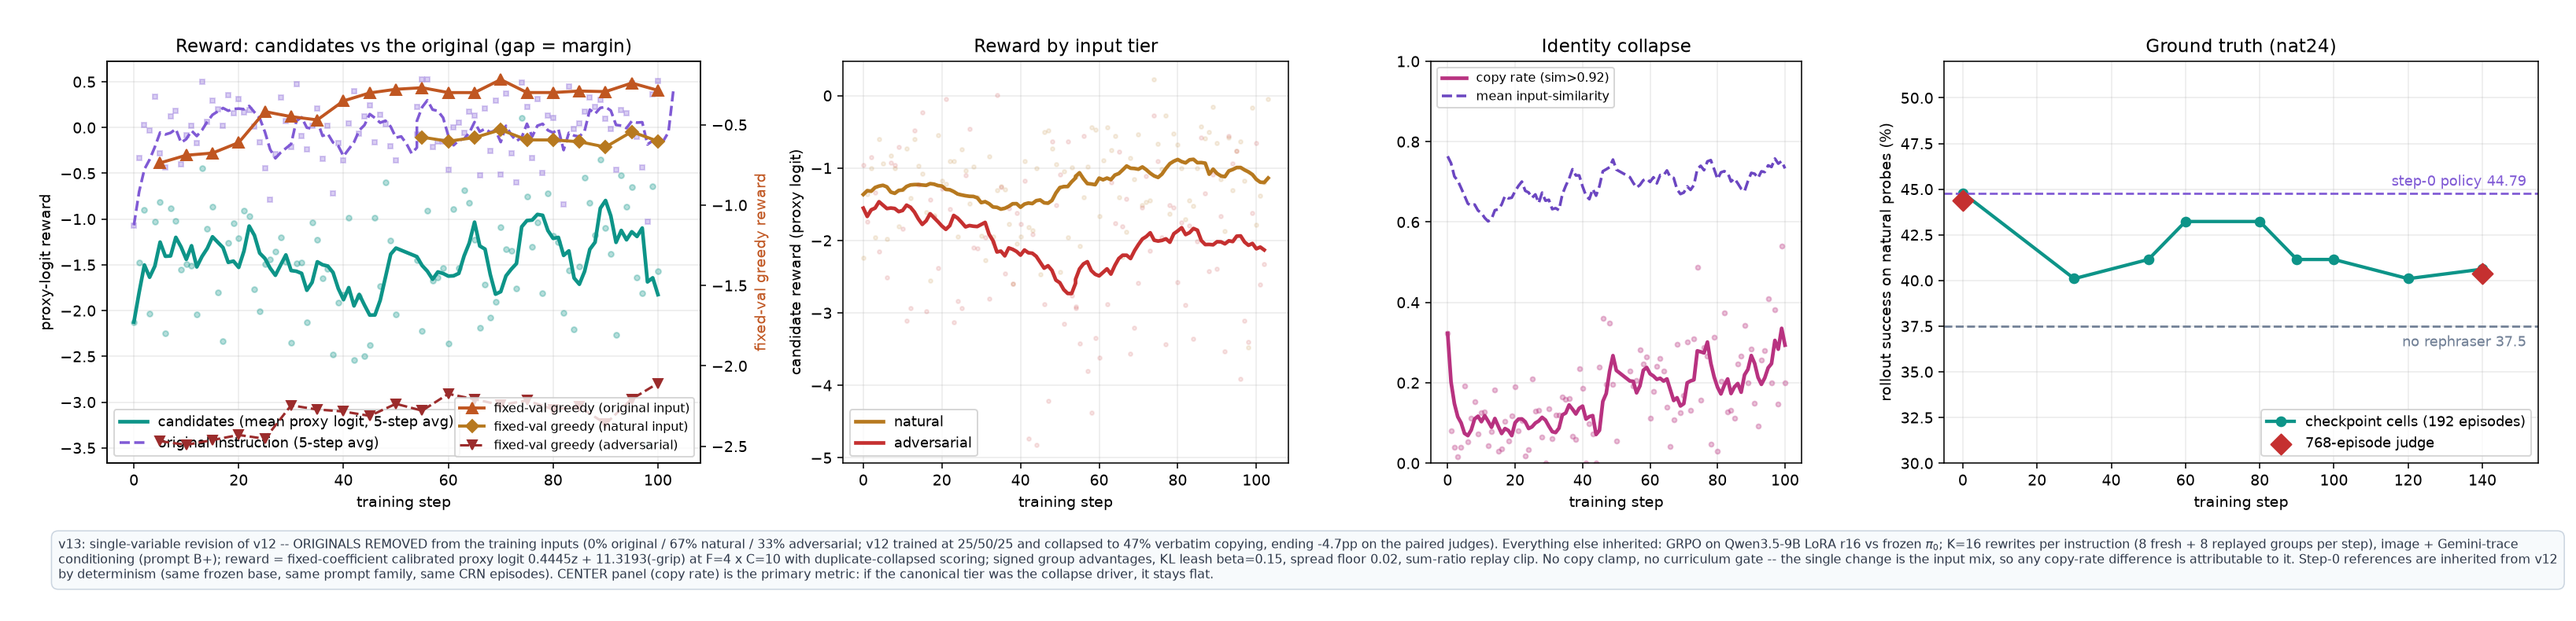
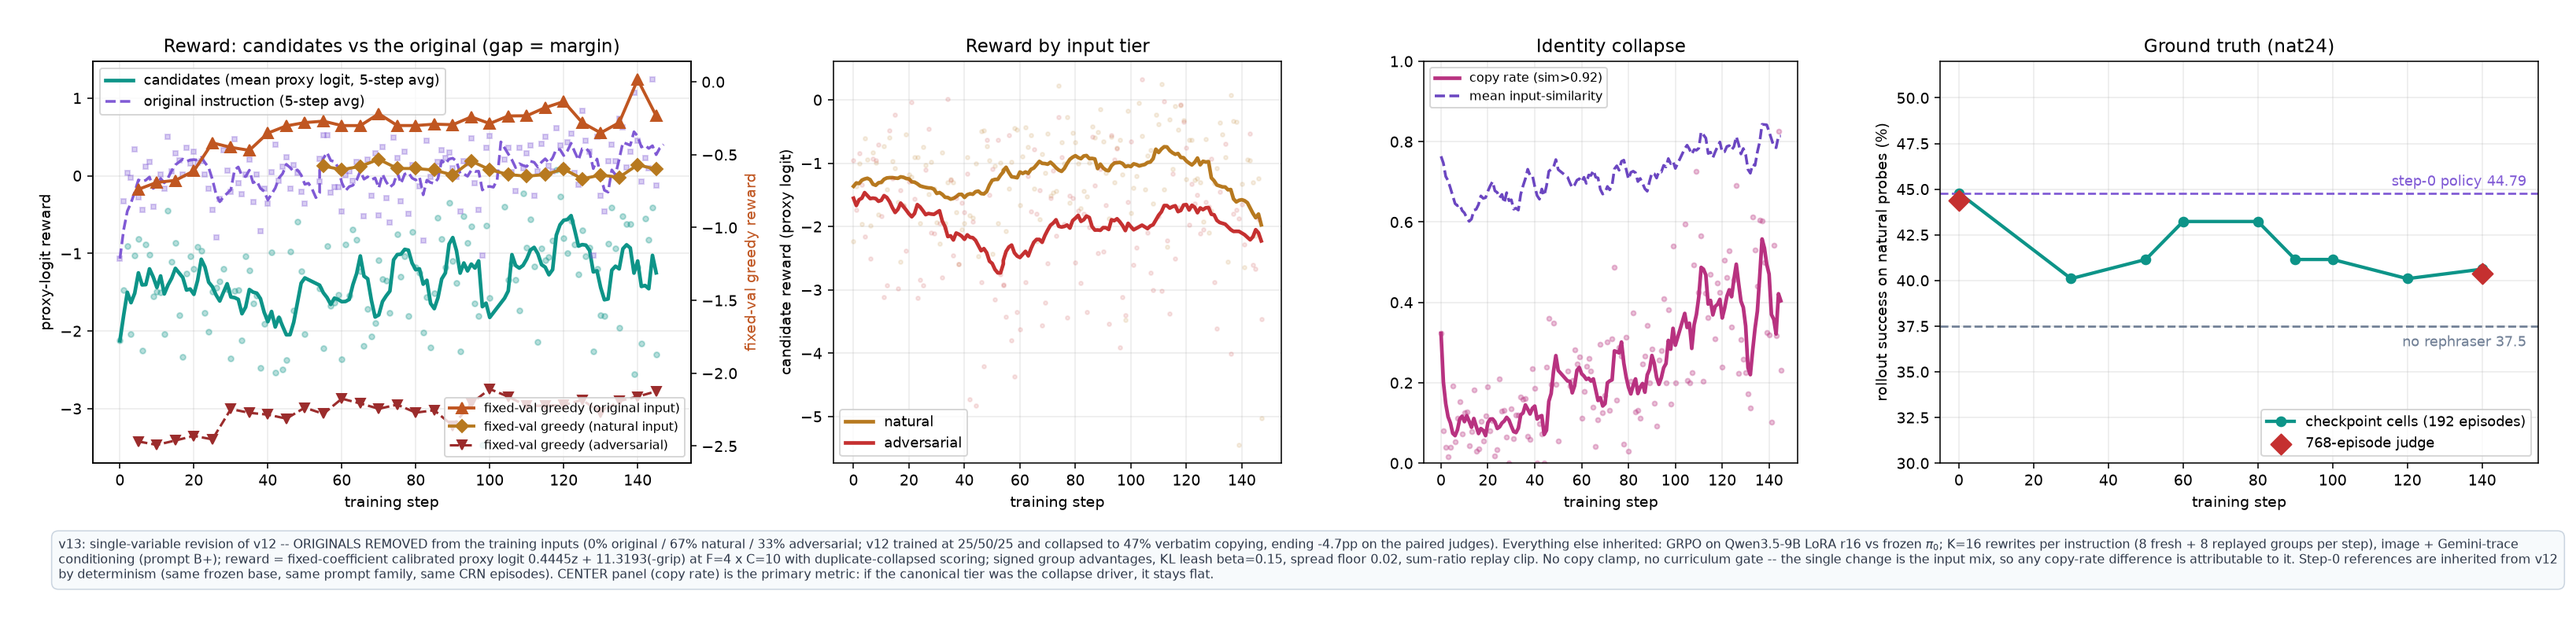
paper: v13 figure + caption in GRPO section; caption-less chart variant for print

diff --git a/paper/main.tex b/paper/main.tex
@@ -399,10 +399,48 @@ action-distance scores that proved uncorrelated with rollout success and
 were abandoned); and the update rule (GRPO over the full sampled group
 versus advantage-weighted finetuning restricted to top-ranked candidate
 sets, with and without replay). \S\ref{sec:results-comparison} reports
-the common outcome. The next revision replaces within-group ranks with
-the calibrated success model of \S\ref{sec:reward} --- a magnitude
-cannot amplify scoring noise into gradient the way a rank can --- and
-restores image conditioning. 
+the common outcome. Two further revisions ran this ablation to ground
+(Fig.~\ref{fig:v13_progress}): replacing within-group ranks with the
+calibrated success model of \S\ref{sec:reward} --- a magnitude cannot
+amplify scoring noise into gradient the way a rank can --- and restoring
+image conditioning eliminated the noise pathway but surfaced a new
+failure, near-verbatim copying of the input (47\% of samples by late
+training); removing original instructions from the training mix then
+eliminated the copying as well --- and rollout success declined all the
+same, from 44.4\% to 40.4\% on paired 768-episode measurements, while
+the reward climbed on every input tier. With rank noise, identity
+collapse, and the input mix each ruled out, what remains is the reward
+itself: its correlation with success, measured across phrases, does not
+survive an optimizer searching for phrases it scores too favorably.
+
+\begin{figure*}[!t]
+    \centering
+    \includegraphics[width=\textwidth]{v13_progress.png}
+    \caption{The final GRPO revision, instrumented end to end. The
+policy (Qwen3.5-9B, LoRA rank 16) rewrites natural and adversarial
+instructions (2:1 mix, no originals), conditioned on the camera frame
+and a scene trace; each step samples $K{=}16$ rewrites of 8
+instructions plus 8 replayed groups, scores every distinct rewrite
+with the calibrated proxy of \S\ref{sec:reward} ($F{=}4$, $C{=}10$),
+and applies signed group-normalized advantages under a KL leash
+($\beta{=}0.15$). \emph{Far left}: mean candidate reward against the
+original instruction's reward on the same scenes, with greedy rewrites
+of a frozen validation set every 5 steps. \emph{Center left}:
+candidate reward by input tier --- the reward rises on all tiers.
+\emph{Center right}: the copying diagnostic --- the fraction of
+rewrites nearly identical to the input stays low throughout (the
+previous revision, which trained with original instructions, collapsed
+to 47\%). \emph{Far right}: ground truth --- rollout success of
+greedy rewrites of 24 natural rephrasings, 192 episodes per point;
+diamonds are paired 768-episode measurements on an identical episode
+set at the endpoints (44.4\% at step 0, 40.4\% at step 140). The
+reward climbs while measured success falls: with every other failure
+mode eliminated, the divergence isolates the proxy itself as the
+exploited surface.}
+    \label{fig:v13_progress}
+\end{figure*}
+
+
 
 
 \section{Experiments}

diff --git a/scripts/make_v13_progress.py b/scripts/make_v13_progress.py
@@ -159,6 +159,9 @@ DESC = (
     "inherited from v12 by determinism (same frozen base, same prompt family, same CRN episodes). CENTER panel (copy rate) is the "
     "primary metric: if the canonical tier was the collapse driver, it stays flat."
 )
+fig.tight_layout()
+fig.savefig("results/charts/v13_progress_paper.png", dpi=200, bbox_inches="tight",
+            pad_inches=0.15)   # caption-less variant for the paper (caption in tex)
 fig.text(0.015, -0.02, DESC, fontsize=8.1, va="top", ha="left", wrap=True,
          family="sans-serif", color="#2d3748",
          bbox=dict(boxstyle="round,pad=0.55", fc="#f7fafc", ec="#cbd5e0", lw=0.8))
